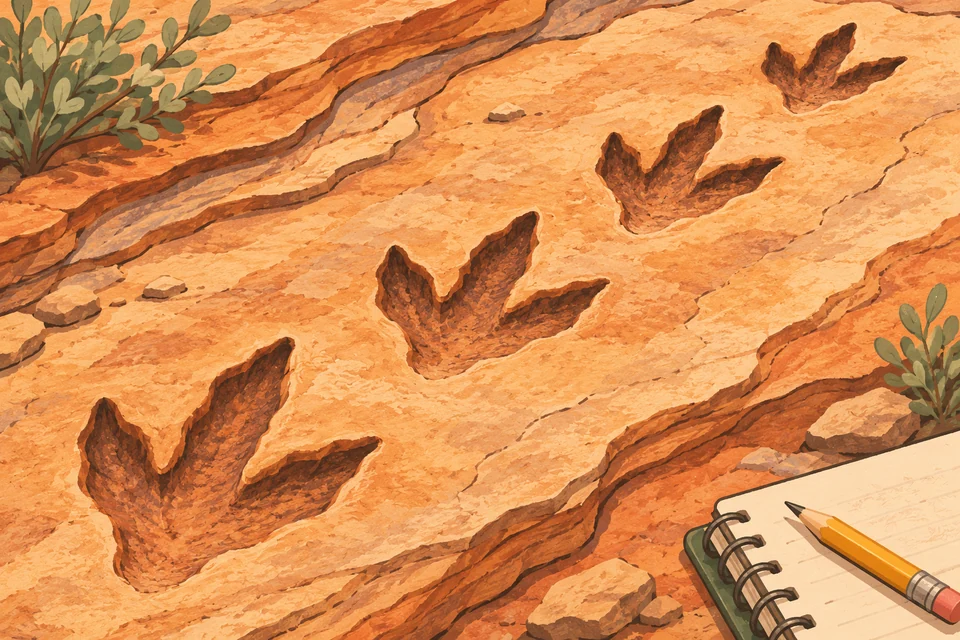
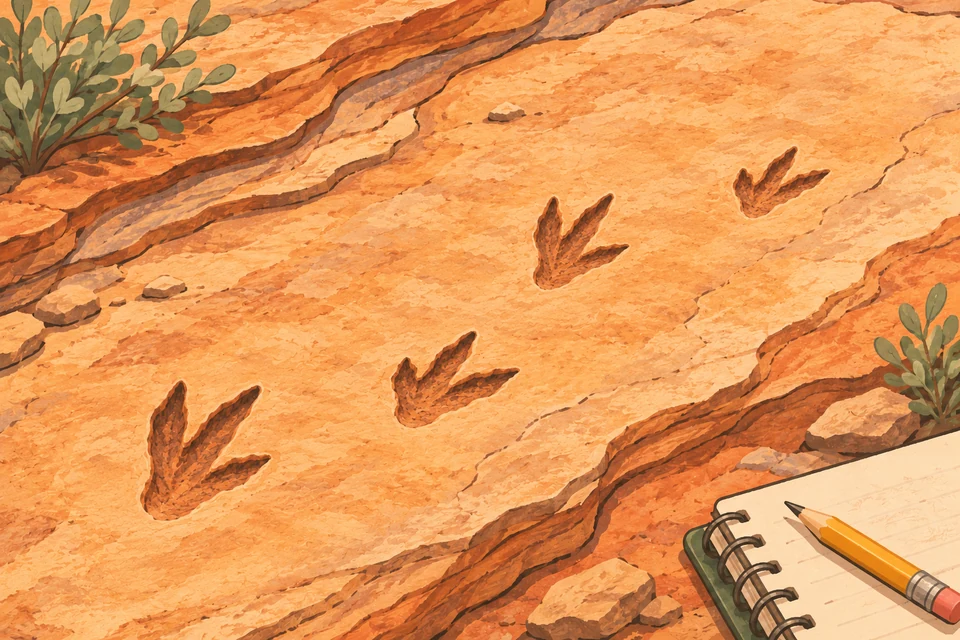
Show alternating dinosaur footprints in reading L009

diff --git a/data/readings-5-es-2.js b/data/readings-5-es-2.js
@@ -18,7 +18,7 @@ export const moreReadings5Es = [
       'Antes de marcharse, Vega dibujó las dos filas en su cuaderno. Puso una flecha para señalar la dirección y dejó un signo de interrogación donde había imaginado a los dos animales juntos.',
     ],
     images: [
-      { id: 'rastro', src: 'assets/readings/huellas-en-roca.webp', width: 960, height: 640, alt: 'Una fila de huellas de tres dedos impresas en una superficie de roca.', afterParagraph: 1 },
+      { id: 'rastro', src: 'assets/readings/huellas-en-roca.webp', width: 960, height: 640, alt: 'Cuatro huellas de tres dedos alternan el pie izquierdo y el derecho sobre la roca.', afterParagraph: 1 },
     ],
     questions: [
       { id: 'huellas-q1', type: 'literal', prompt: '¿En qué material quedaron impresas las pisadas al principio?', answer: 'En barro húmedo.', lines: 1 },

diff --git a/assets/readings/L009-L012-illustracions.md b/assets/readings/L009-L012-illustracions.md
@@ -4,6 +4,12 @@ Il·lustracions generades amb ImageGen en mode integrat i optimitzades per al ca
 
 ## L009 · huellas-en-roca.webp
 
+La versió publicada incorpora una revisió de les quatre petjades perquè alternin els peus i mostrin el pas d’un animal bípede.
+
+```text
+Maintain the exact sandstone, notebook, pencil, vegetation and warmly textured gouache style of this image. REDRAW ONLY the four three-toed fossil impressions in a believable, fairly narrow bipedal trackway on the clear middle of the slab. Composition coordinates are from upper left, percentages of image width and height: impression 1 center (22%,71%); impression 2 center (46%,62%); impression 3 center (61%,37%); impression 4 center (83%,27%). Exactly four, placed in this order, increasing x and decreasing y, small but clear sideways alternating offset. The elongated middle toe of EVERY print points from lower left to upper right (about 2 o'clock). To SHOW the mirrored left and right feet, use these distinct three-toe shapes: for prints 1 and 3, give the upper, more vertical toe (about 12 o'clock) a visibly longer reach than the rightward toe (about 3 o'clock); for prints 2 and 4, give the rightward toe a visibly longer reach and the upper toe a distinctly shorter reach. In all cases middle toe is longest. Asymmetric three toe silhouettes, mirror mates about the travel axis, NOT four repeated stamps. All remain natural subtle dark depressions with rough sandstone texture, no arrows, text or grid, gradually smaller into distance.
+```
+
 ```text
 Use case: scientific-educational. Close, gently elevated oblique view of a sandstone fossil trackway with three or four clear successive three-toed impressions in a single direction, a few naturally layered rock textures and the suggestion of a field notebook partly visible at one corner. The tracks are the focus. No living dinosaur, bones, misleading modern animal tracks, or inferred species. Asset type: landscape illustration for a printable fifth-grade reading worksheet and web card. Full-bleed wide composition around 3:2, centered important details safe for a wider crop. Restrained editorial picture-book style: clean softly textured gouache shapes, dark muted outlines, warm cream, terracotta and muted teal or sage. Strong value contrast, clear even when printed small in grayscale. No text, lettering, numbers, border, watermark or labels.
 ```
